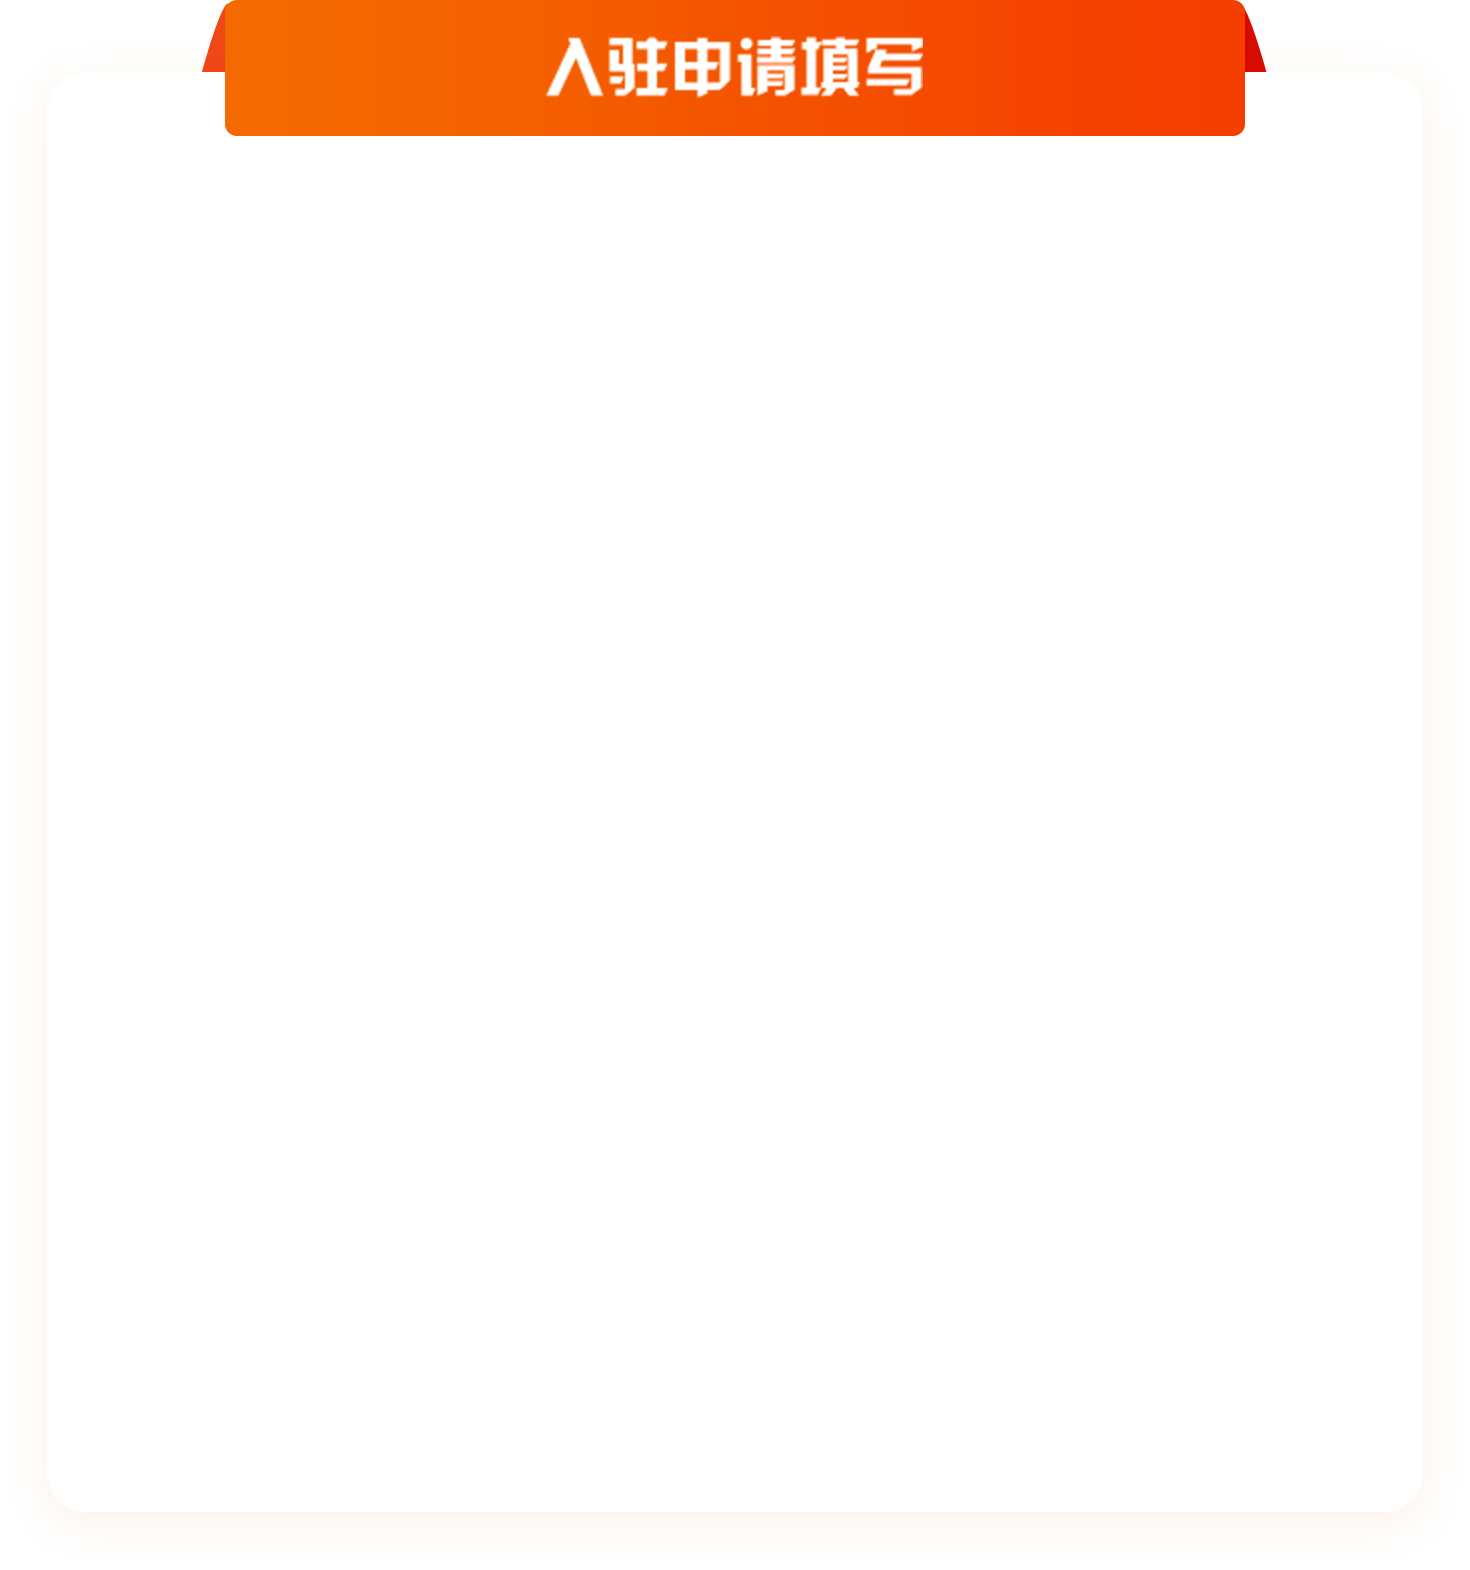
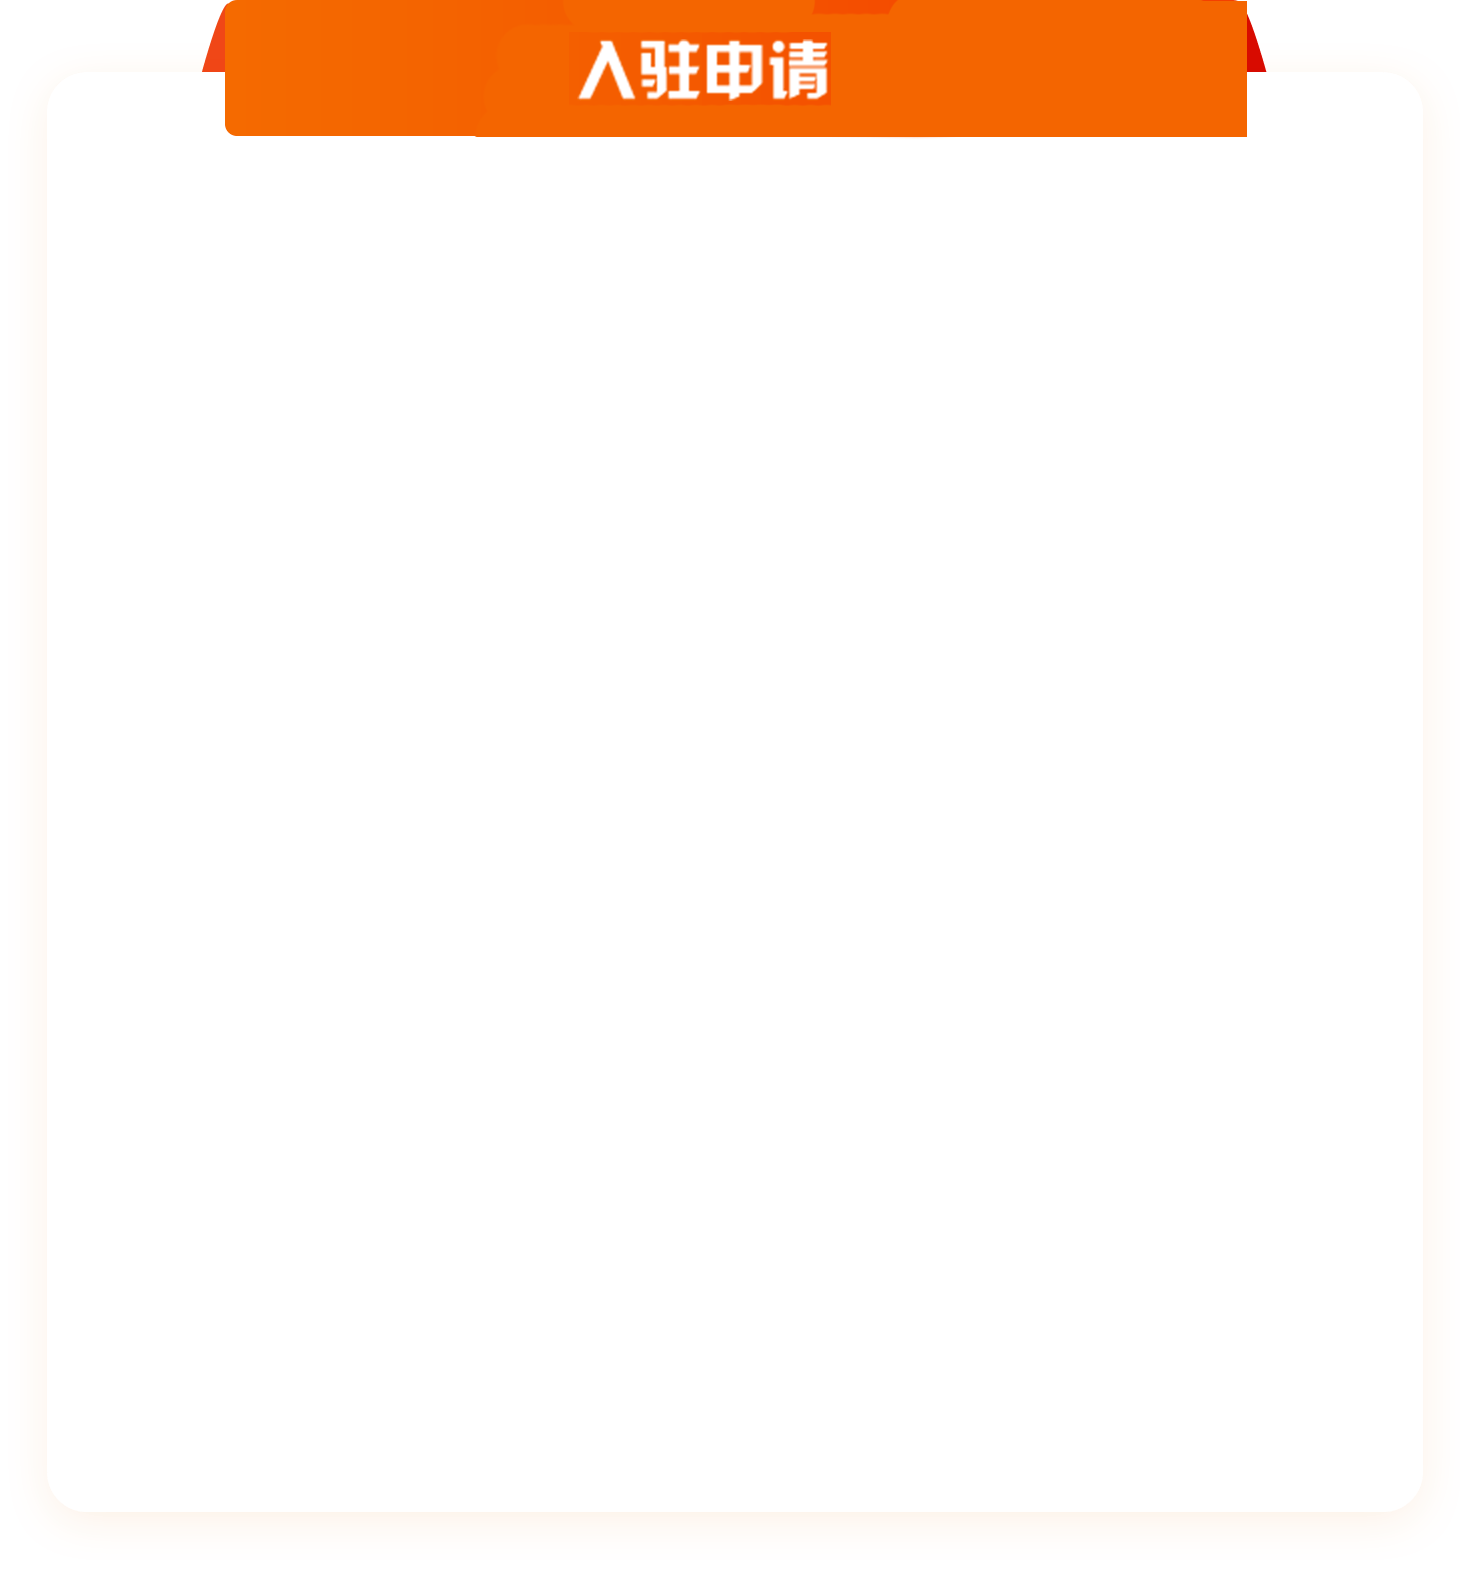
修改“供应商入住”申请方式

Changed region(s): [[0.3673, 0.0, 0.8571, 0.0936]]

diff --git a/supplier-check-in.html b/supplier-check-in.html
@@ -9,6 +9,8 @@
     <title>供应商入住</title>
     <link rel="shortcut icon" type="image/x-icon" href="./favicon.ico" />
     <link href="./css/reset.css" rel="stylesheet" type="text/css" />
+    <link href="https://res.wx.qq.com/open/libs/weui/2.3.0/weui.min.css" rel="stylesheet" type="text/css" />
+    <script src="https://res.wx.qq.com/open/libs/weuijs/1.2.1/weui.min.js"></script>
     <style>
       .head-bg {
         width: 100vw;
@@ -31,10 +33,15 @@
       }
       .content-tips {
         color: #8a8a8a;
-        font-size: 3.2vw;
+        font-size: 4vw;
         line-height: 2;
         text-align: center;
-        margin-bottom: 10vw;
+        margin-bottom: 12vw;
+        margin-top: 10vw;
+      }
+      .content-tips span {
+        color: #f35f00;
+        font-weight: bold;
       }
       .input-tips {
         color: #25283d;
@@ -59,6 +66,7 @@
         border-radius: 7vw;
         margin-top: 4vw;
         color: #fff;
+        letter-spacing: 1vw;
       }
       .loading-wrap {
         position: fixed;
@@ -124,25 +132,9 @@
     <div class="content">
       <div class="content-wrap">
         <p class="content-tips">
-          请填写相关信息，提交后经过审核，将由工作人员联系您 提供公司营业执照及施工资质证明。
+          请将产品资料发于此邮箱<span>1309904889@qq.com</span>，供应链部门工作人员收到邮件审核后将与您进行联系！
         </p>
-        <p class="input-tips">联系人</p>
-        <div class="input-wrap">
-          <input
-            type="text"
-            onblur="inputDown()"
-            class="input input-name"
-            id="name"
-            placeholder="请填写您的姓名/公司名称"
-          />
-        </div>
-        <p class="input-tips">联系方式</p>
-        <div class="input-wrap">
-          <input class="input input-phone" placeholder="请填写您的手机号" type="tel" id="phone" onblur="validTel(event)" />
-        </div>
-        <button class="submit-btn" onclick="submit()">
-          立即申请
-        </button>
+        <button class="submit-btn" data-clipboard-text="1309904889@qq.com" onclick="copy()">复制邮箱地址</button>
       </div>
     </div>
     <!-- 弹窗 -->
@@ -252,6 +244,28 @@
               document.activeElement.scrollIntoViewIfNeeded();
             }, 0);
           }
+        });
+      }
+    </script>
+    <script src="./js/clipboard.min.js"></script>
+    <script>
+      function copy() {
+        console.log(1);
+        var btnCopy = new ClipboardJS(".submit-btn");
+        console.log(btnCopy);
+        btnCopy.on("success", function (e) {
+          weui.toast("已复制", {
+            duration: 2000,
+            className: "custom-classname",
+          });
+          btnCopy.destroy();
+        });
+        btnCopy.on("error", function (e) {
+          weui.topTips("复制失败", {
+            duration: 3000,
+            className: "custom-classname",
+          });
+          btnCopy.destroy();
         });
       }
     </script>
